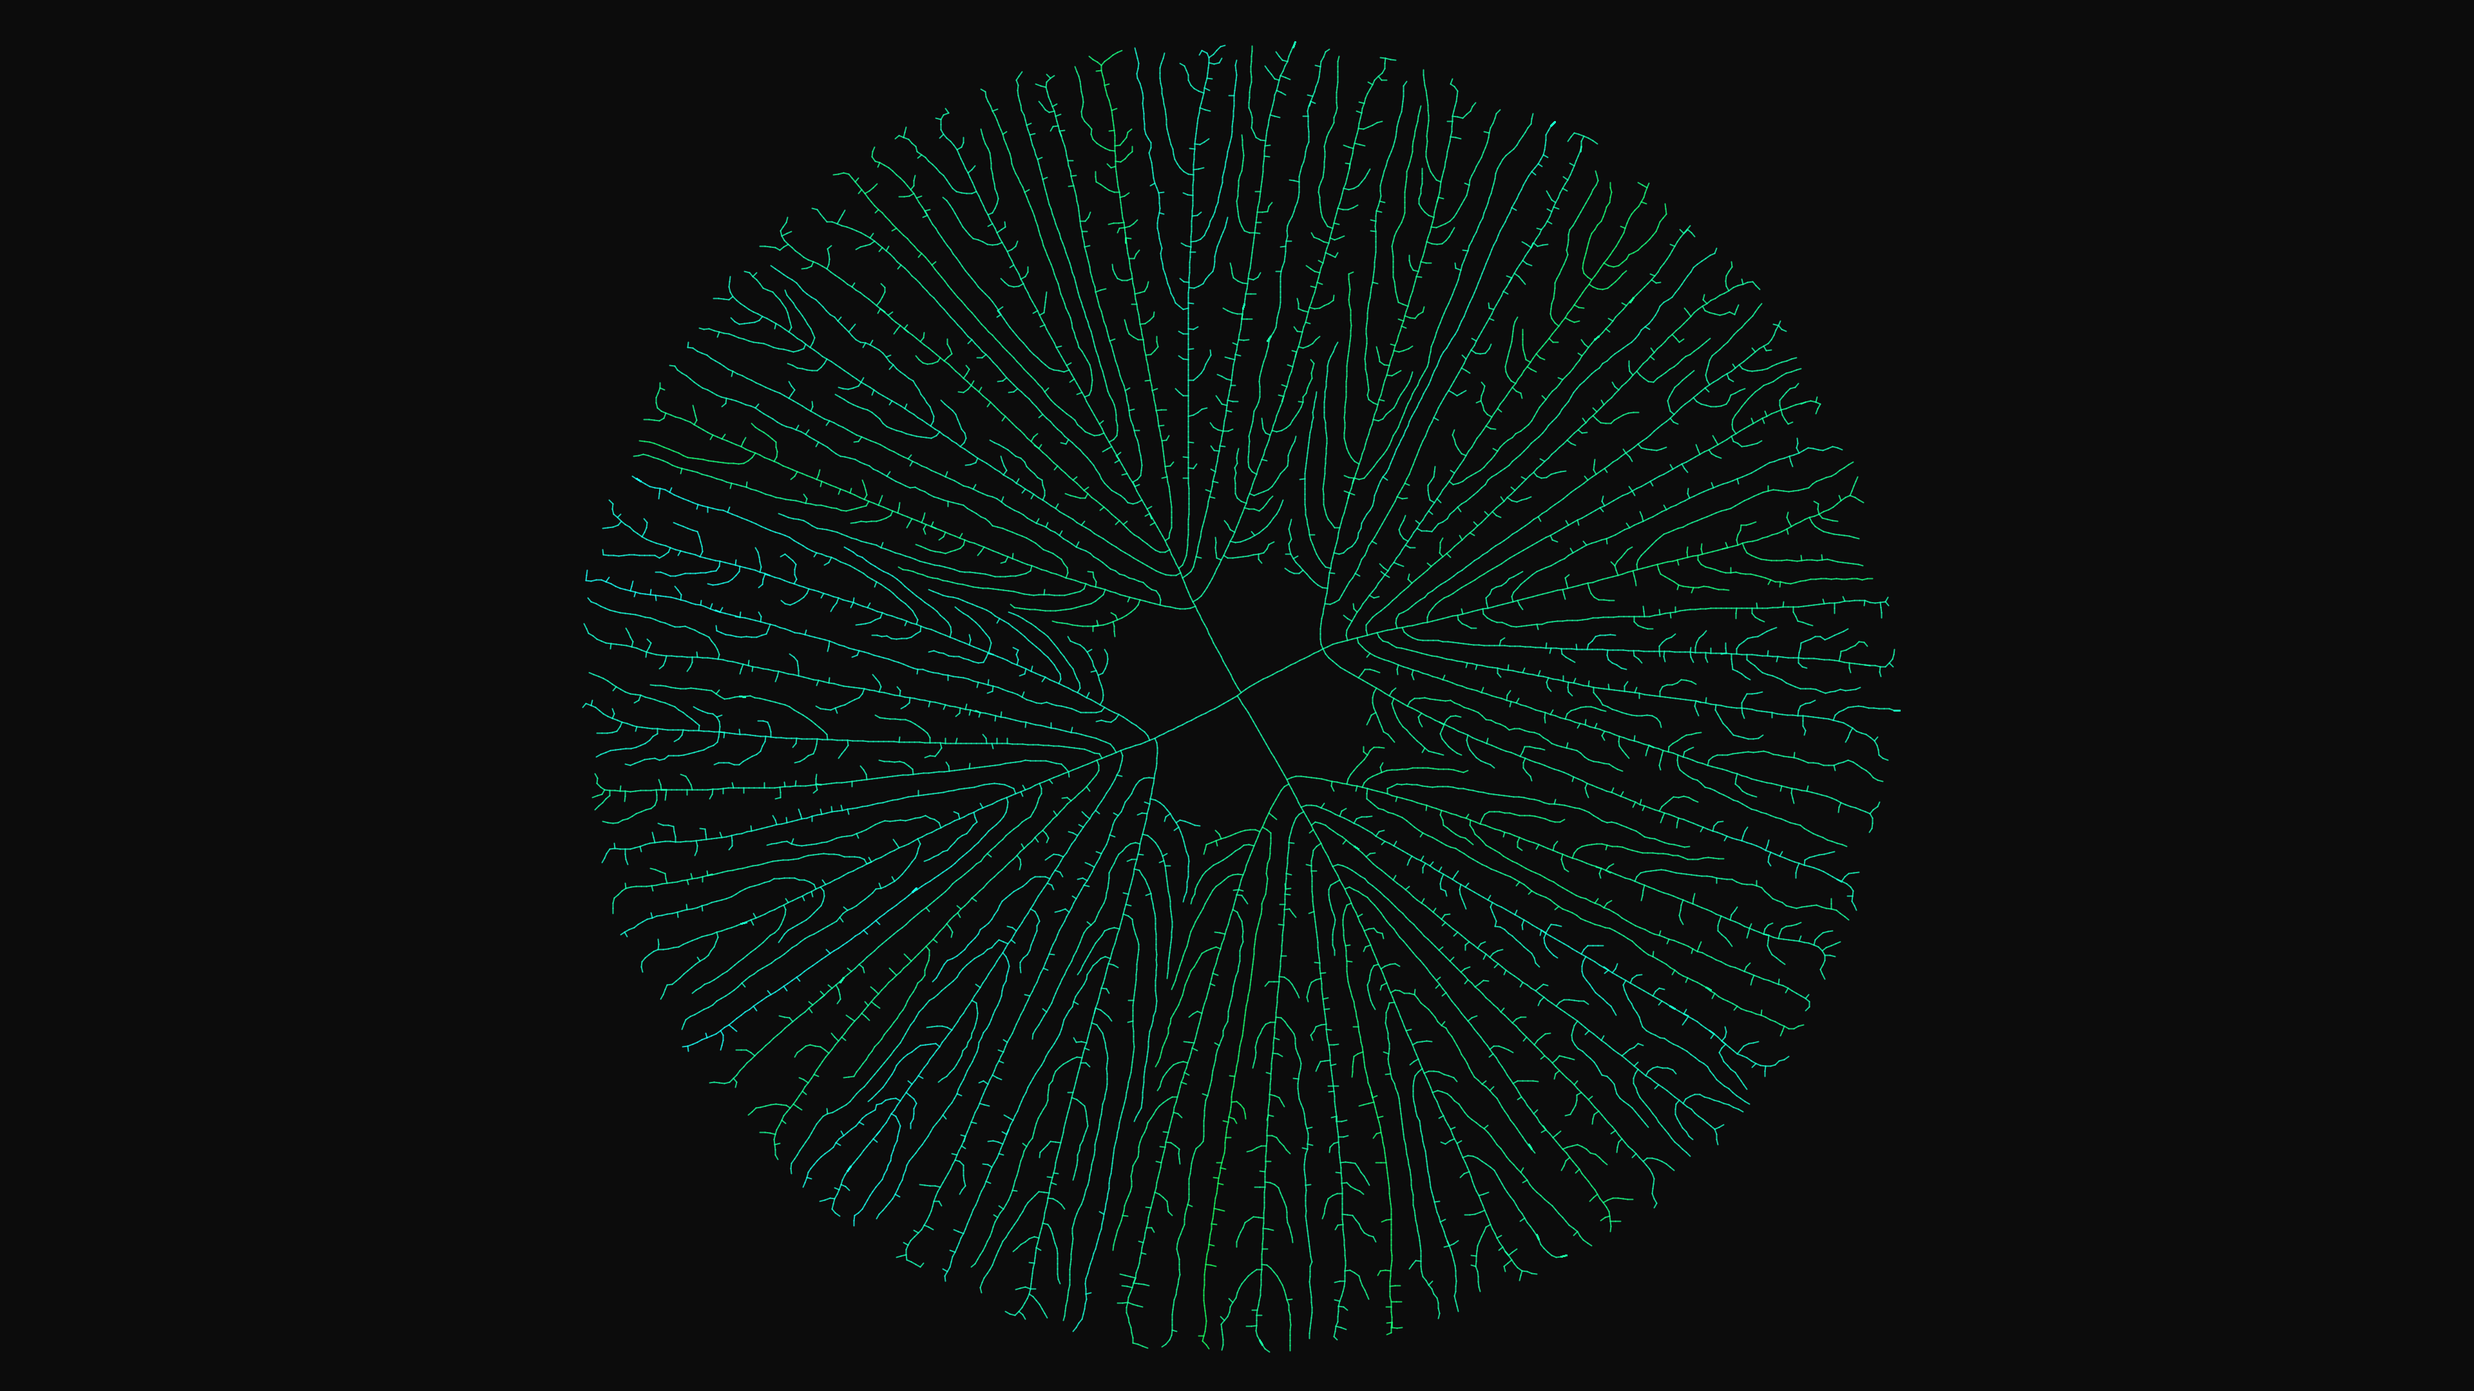
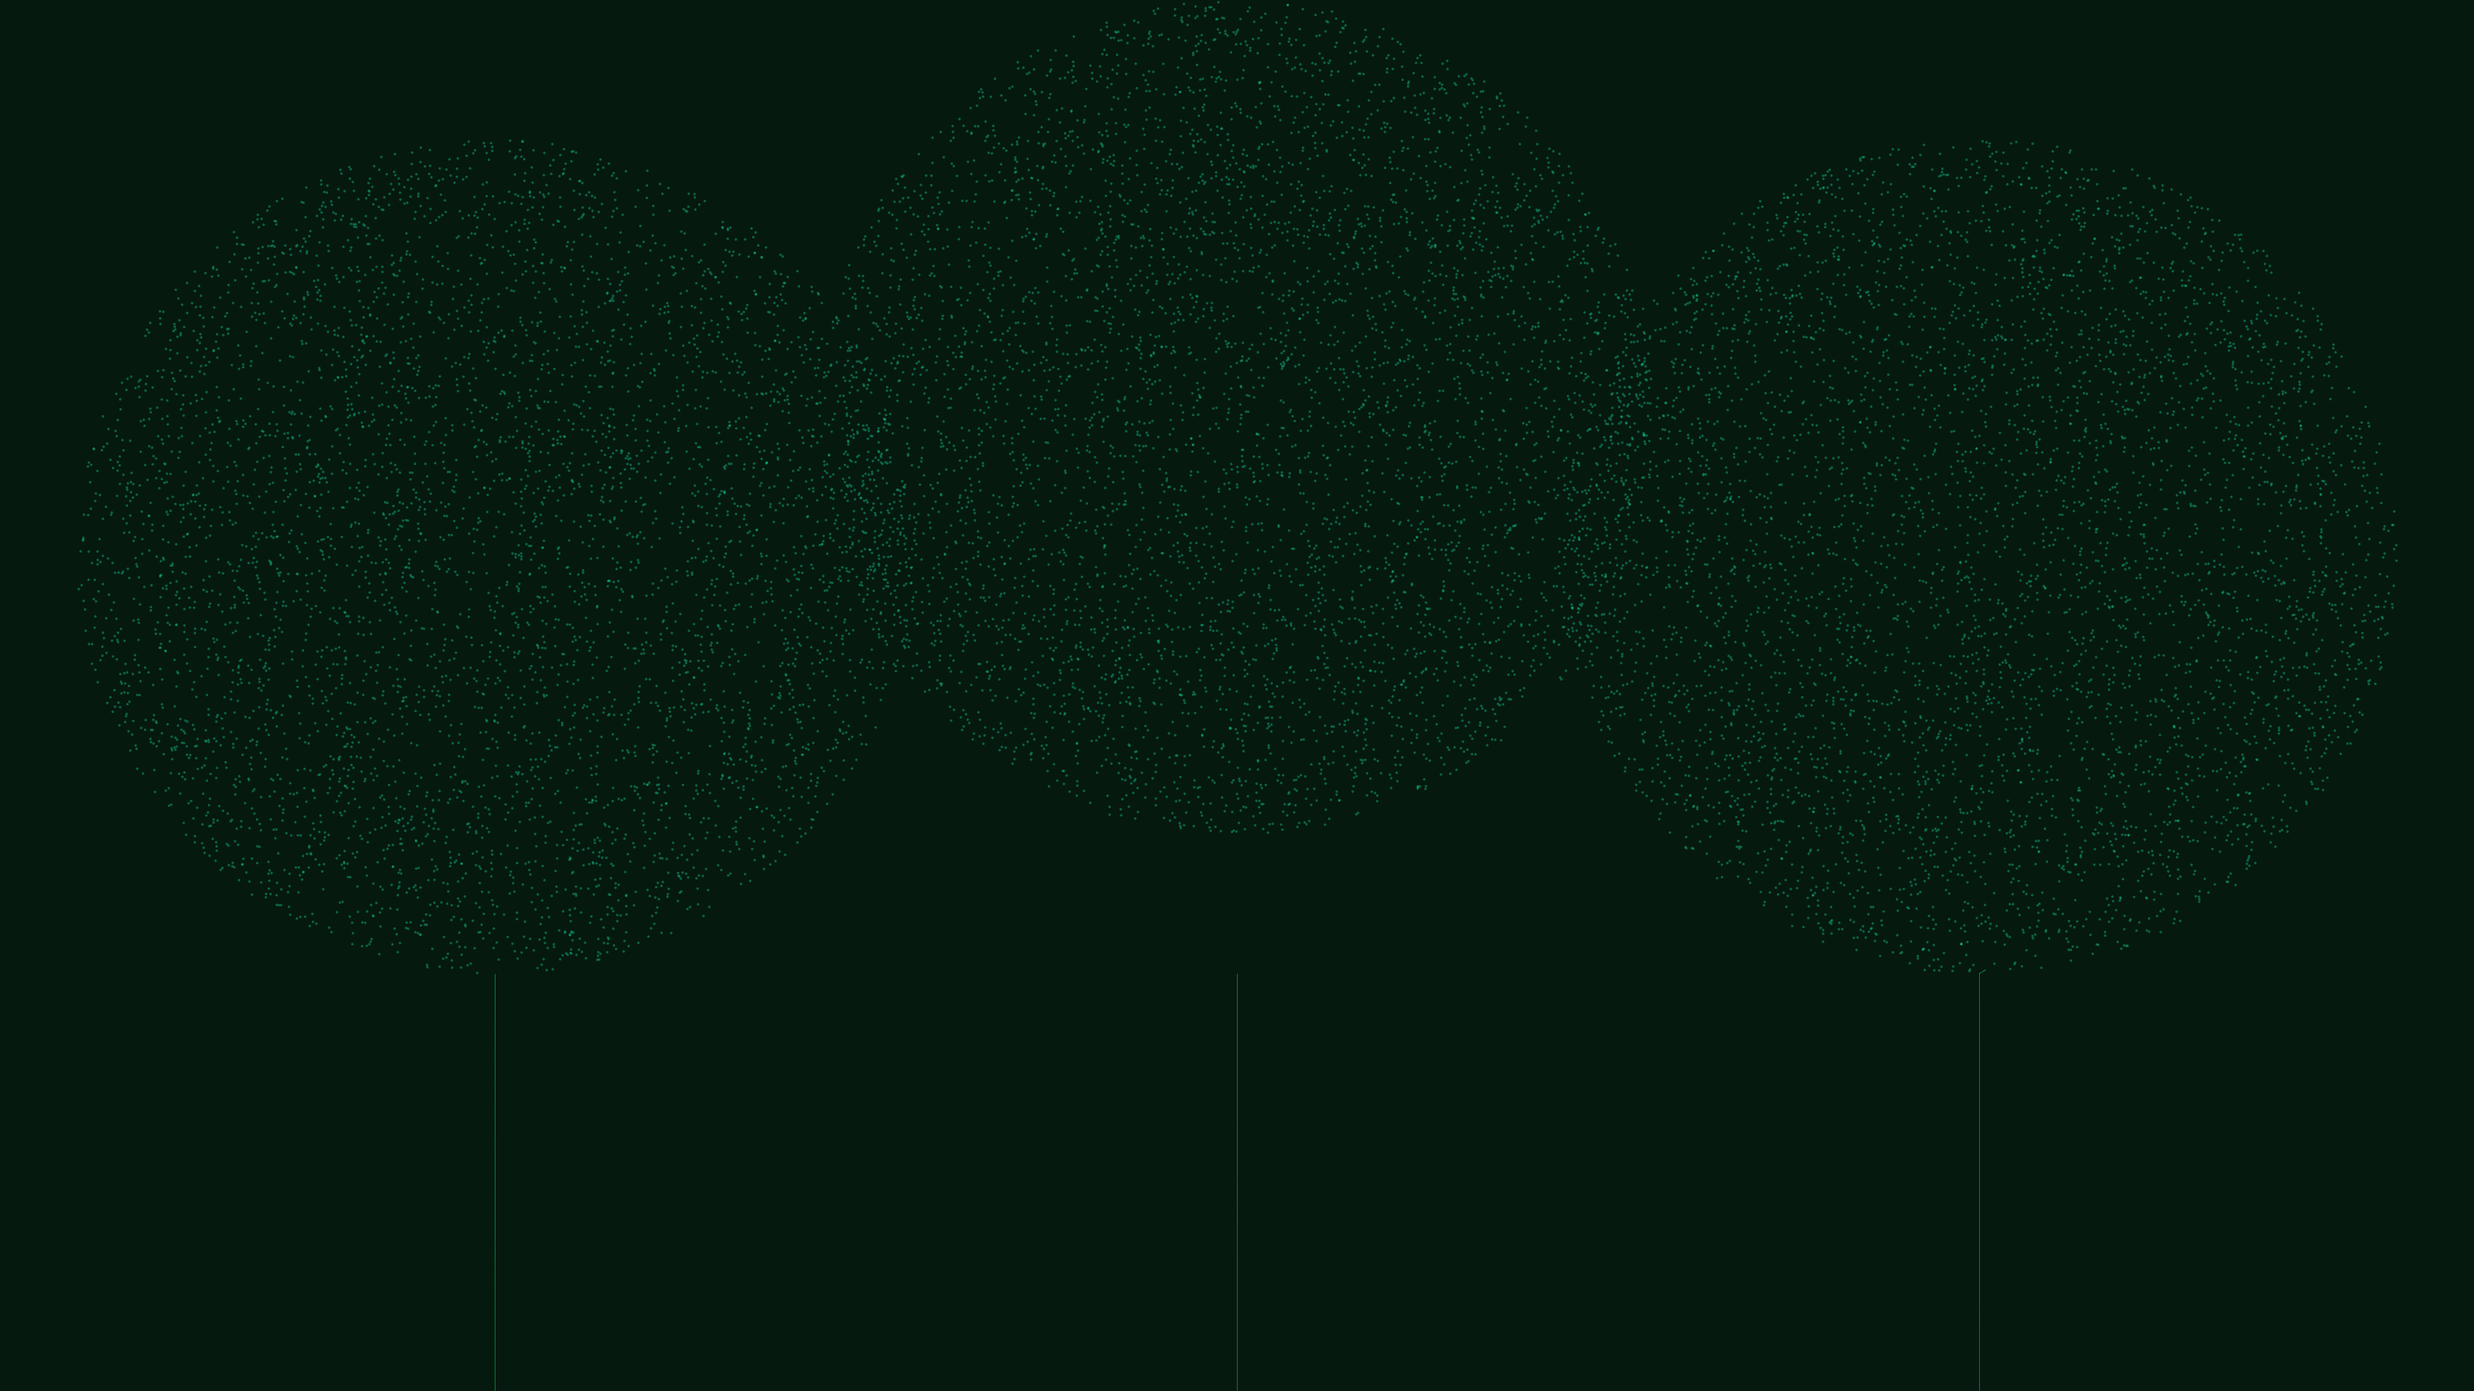
feat: add kinetic_space_colonization_trees_2d animation

diff --git a/sketch/kinetic_space_colonization_trees_2d/main.py b/sketch/kinetic_space_colonization_trees_2d/main.py
@@ -5,6 +5,7 @@ import sys
 import random
 import py5
 import numpy as np
+from scipy.spatial import cKDTree
 
 PROJECT_ROOT = Path(__file__).resolve().parents[2]
 if str(PROJECT_ROOT) not in sys.path:
@@ -23,155 +24,182 @@ PREVIEW_FILENAME = f"{WORK_NAME}_p1.png"
 PREVIEW_SIZE, OUTPUT_SIZE, _ = get_sizes()
 SIZE = OUTPUT_SIZE
 
-# Space Colonization Algorithm Constants
-MAX_DIST = 400.0  # Max distance an attractor can influence a branch
-MIN_DIST = 15.0   # Distance at which an attractor is "reached" and removed
-BRANCH_LENGTH = 8.0 # How far a branch grows per step
+# Space Colonization Algorithm parameters
 NUM_ATTRACTORS = 15000
+ATTRACT_DIST = py5.height * 0.15 # Max distance to be influenced
+KILL_DIST = py5.height * 0.005  # Distance to eat an attractor
+BRANCH_LEN = py5.height * 0.006
 
-# Attractors: numpy array (N, 2)
 attractors = []
-for _ in range(NUM_ATTRACTORS):
-    # distribute them mostly in a wide circle
-    r = random.uniform(200, SIZE[1] // 2 - 50)
-    theta = random.uniform(0, py5.TWO_PI)
-    cx, cy = SIZE[0] // 2, SIZE[1] // 2
-    attractors.append([cx + r * np.cos(theta), cy + r * np.sin(theta)])
-attractors = np.array(attractors, dtype=np.float32)
-
-# Tree nodes: numpy array (M, 2) of positions, parent index array (M,), and hue array (M,)
-tree = np.array([[SIZE[0]//2, SIZE[1]//2]], dtype=np.float32)
-parents = np.array([-1], dtype=np.int32)
-hues = np.array([160.0], dtype=np.float32)
-
-# To keep the render fast over time, we only consider "active" tree nodes (leaves) that recently grew
-# This is an optimization. We keep a boolean mask of active nodes.
-active_nodes = np.array([True])
+nodes = [] # (x, y, parent_idx, thickness)
+node_pts = None # Nx2 numpy array for fast querying
+KD_TREE_ATTRACTORS = None
 
 def setup():
     py5.size(*SIZE)
     py5.pixel_density(1)
     FRAMES_DIR.mkdir(exist_ok=True)
     py5.color_mode(py5.HSB, 360, 100, 100, 100)
-    py5.background(0, 0, 5) # almost black
-    py5.stroke_weight(2.0)
-    py5.no_fill()
+    
+    py5.background(150, 80, 10) # Dark teal background
+    
+    global attractors, nodes, node_pts
+    
+    # Create attractors in canopy shapes
+    for _ in range(NUM_ATTRACTORS):
+        # Three circular canopies
+        cx, cy = random.choice([
+            (py5.width * 0.2, py5.height * 0.4),
+            (py5.width * 0.5, py5.height * 0.3),
+            (py5.width * 0.8, py5.height * 0.4)
+        ])
+        
+        # Add random scatter
+        r = py5.height * 0.3 * np.sqrt(random.random())
+        theta = random.random() * 2 * np.pi
+        
+        x = cx + r * np.cos(theta)
+        y = cy + r * np.sin(theta)
+        
+        attractors.append(np.array([x, y]))
+        
+    attractors = np.array(attractors, dtype=np.float32)
+    
+    # Create initial root nodes
+    for i, cx in enumerate([py5.width * 0.2, py5.width * 0.5, py5.width * 0.8]):
+        # Start at the bottom
+        x = cx
+        y = py5.height
+        
+        # Grow trunk straight up until it reaches canopy
+        parent_idx = -1
+        while y > py5.height * 0.7:
+            nodes.append((x, y, parent_idx, 0.0))
+            parent_idx = len(nodes) - 1
+            y -= BRANCH_LEN
+            
+    node_pts = np.array([[n[0], n[1]] for n in nodes], dtype=np.float32)
 
 def draw():
-    global attractors, tree, parents, hues, active_nodes
+    global attractors, nodes, node_pts
     
-    # We do a few growth steps per frame
+    # We do multiple growth steps per frame for speed
     for _ in range(2):
         if len(attractors) == 0:
             break
             
-        # Get active tree nodes
-        active_idx = np.where(active_nodes)[0]
-        if len(active_idx) == 0:
+        # Build KD tree of tree nodes to find nearest neighbors for each attractor
+        node_tree = cKDTree(node_pts)
+        
+        # Query nearest node for each attractor
+        dists, indices = node_tree.query(attractors, distance_upper_bound=ATTRACT_DIST)
+        
+        # Find which attractors are eaten
+        eaten = dists < KILL_DIST
+        
+        # Filter out eaten attractors
+        valid = ~eaten
+        active_attractors = attractors[valid]
+        active_dists = dists[valid]
+        active_indices = indices[valid]
+        
+        attractors = active_attractors # Update global list
+        
+        if len(attractors) == 0:
             break
-        active_tree = tree[active_idx]
-        
-        # Calculate distances from all attractors to all active tree nodes
-        # To avoid massive memory allocation (N*M*2 floats), we loop over attractors or use KDTree.
-        # We find the closest active tree node for each attractor in chunks.
-        
-        N = len(attractors)
-        M = len(active_tree)
-        
-        # If no active nodes, break
-        if M == 0: break
-        
-        closest_node_idx_for_attractor = np.zeros(N, dtype=np.int32) - 1
-        min_dist_for_attractor = np.full(N, np.inf)
-        
-        CHUNK_SIZE = 1000
-        for i in range(0, N, CHUNK_SIZE):
-            chunk = attractors[i:i+CHUNK_SIZE] # (C, 2)
-            # diffs: (C, M, 2)
-            diffs = chunk[:, np.newaxis, :] - active_tree[np.newaxis, :, :]
-            dists = np.linalg.norm(diffs, axis=2) # (C, M)
             
-            # Find min dist and index for each attractor in chunk
-            min_idx = np.argmin(dists, axis=1) # (C,)
-            min_dist = dists[np.arange(len(chunk)), min_idx] # (C,)
+        # For each node, find the average direction of all attractors it influences
+        # active_indices contains the index of the nearest node for each active attractor
+        
+        # Accumulate direction vectors
+        node_dirs = np.zeros_like(node_pts)
+        node_counts = np.zeros(len(node_pts), dtype=np.int32)
+        
+        # Only process those within ATTRACT_DIST (scipy cKDTree returns infinity if not found)
+        in_range = active_dists < ATTRACT_DIST
+        
+        valid_attractors = active_attractors[in_range]
+        valid_indices = active_indices[in_range]
+        
+        for i in range(len(valid_attractors)):
+            attr = valid_attractors[i]
+            n_idx = valid_indices[i]
             
-            # Map chunk indices back to global
-            closest_node_idx_for_attractor[i:i+CHUNK_SIZE] = min_idx
-            min_dist_for_attractor[i:i+CHUNK_SIZE] = min_dist
-
-        # Filter attractors that are too far
-        valid_mask = min_dist_for_attractor < MAX_DIST
-        
-        # Remove attractors that are reached
-        reached_mask = min_dist_for_attractor < MIN_DIST
-        
-        # We only care about attractors that are valid and NOT reached
-        active_attractor_mask = valid_mask & ~reached_mask
-        
-        if not np.any(active_attractor_mask):
-            attractors = attractors[~reached_mask]
-            # Randomly deactivate some old nodes so we don't get stuck checking them
-            if random.random() < 0.1:
-                active_nodes[random.choice(active_idx)] = False
-            continue
+            node_pos = node_pts[n_idx]
+            dir_vec = attr - node_pos
+            # Normalize
+            norm = np.linalg.norm(dir_vec)
+            if norm > 0:
+                dir_vec /= norm
+                
+            node_dirs[n_idx] += dir_vec
+            node_counts[n_idx] += 1
             
-        # For each valid attractor, it influences its closest active node
-        valid_attractor_idx = np.where(active_attractor_mask)[0]
-        influencing_attractors = attractors[valid_attractor_idx]
-        influenced_active_nodes = closest_node_idx_for_attractor[valid_attractor_idx] # these are indices into active_tree!
+        # Add new nodes
+        new_nodes = []
+        new_node_pts = []
         
-        # Accumulate directions for each active node
-        node_dir_sum = np.zeros_like(active_tree)
-        node_pull_count = np.zeros(M, dtype=np.int32)
-        
-        # Calculate direction from node to attractor
-        dirs = influencing_attractors - active_tree[influenced_active_nodes]
-        dirs_norm = np.linalg.norm(dirs, axis=1, keepdims=True)
-        dirs_normalized = np.divide(dirs, dirs_norm, out=np.zeros_like(dirs), where=dirs_norm!=0)
-        
-        np.add.at(node_dir_sum, influenced_active_nodes, dirs_normalized)
-        np.add.at(node_pull_count, influenced_active_nodes, 1)
-        
-        # Find which nodes are being pulled
-        pulled_mask = node_pull_count > 0
-        pulled_indices = np.where(pulled_mask)[0]
-        
-        if len(pulled_indices) == 0:
-            attractors = attractors[~reached_mask]
-            continue
+        for n_idx in range(len(node_pts)):
+            if node_counts[n_idx] > 0:
+                avg_dir = node_dirs[n_idx] / node_counts[n_idx]
+                # Normalize again just in case
+                norm = np.linalg.norm(avg_dir)
+                if norm > 0:
+                    avg_dir /= norm
+                    
+                # Add some noise to the direction for organic growth
+                noise_angle = random.uniform(-0.2, 0.2)
+                c, s = np.cos(noise_angle), np.sin(noise_angle)
+                rot_dir = np.array([avg_dir[0]*c - avg_dir[1]*s, avg_dir[0]*s + avg_dir[1]*c])
+                
+                new_pos = node_pts[n_idx] + rot_dir * BRANCH_LEN
+                
+                new_nodes.append((new_pos[0], new_pos[1], n_idx, 0.0))
+                new_node_pts.append(new_pos)
+                
+        if new_nodes:
+            nodes.extend(new_nodes)
+            node_pts = np.vstack([node_pts, np.array(new_node_pts)])
             
-        # Calculate average direction for pulled nodes
-        avg_dirs = node_dir_sum[pulled_indices] / node_pull_count[pulled_indices, np.newaxis]
-        avg_dirs_norm = np.linalg.norm(avg_dirs, axis=1, keepdims=True)
-        avg_dirs_normalized = np.divide(avg_dirs, avg_dirs_norm, out=np.zeros_like(avg_dirs), where=avg_dirs_norm!=0)
+    # Calculate thickness from leaves to root
+    # We do this every frame for the new topology
+    leaf_nodes = set(range(len(nodes)))
+    for n in nodes:
+        if n[2] != -1:
+            leaf_nodes.discard(n[2])
+            
+    area = np.zeros(len(nodes), dtype=np.float32)
+    for i in leaf_nodes:
+        area[i] = 1.0
         
-        # Calculate new node positions
-        new_positions = active_tree[pulled_indices] + avg_dirs_normalized * BRANCH_LENGTH
+    for i in range(len(nodes) - 1, -1, -1):
+        parent_idx = nodes[i][2]
+        if parent_idx != -1:
+            area[parent_idx] += area[i]
+            
+    thickness = np.sqrt(area)
+            
+    # Render
+    py5.background(150, 80, 10)
+    
+    # Draw attractors (leaves)
+    py5.no_stroke()
+    py5.fill(160, 90, 80, 40)
+    for a in attractors:
+        py5.circle(a[0], a[1], 4)
         
-        # The parent index in the FULL tree is active_idx[pulled_indices]
-        new_parents = active_idx[pulled_indices]
-        
-        # Vary hue slightly based on parent hue
-        new_hues = hues[new_parents] + np.random.uniform(-1, 1, size=len(new_parents))
-        new_hues = np.mod(new_hues, 360) # keep it wrapping
-        
-        # Draw the new branches
-        py5.begin_shape(py5.LINES)
-        for i in range(len(new_positions)):
-            py5.stroke(new_hues[i], 90, 100, 80)
-            p_idx = new_parents[i]
-            py5.vertex(tree[p_idx, 0], tree[p_idx, 1])
-            py5.vertex(new_positions[i, 0], new_positions[i, 1])
-        py5.end_shape()
-        
-        # Append new nodes to the full tree
-        tree = np.vstack((tree, new_positions))
-        parents = np.concatenate((parents, new_parents))
-        hues = np.concatenate((hues, new_hues))
-        active_nodes = np.concatenate((active_nodes, np.ones(len(new_positions), dtype=bool)))
-        
-        # Remove reached attractors
-        attractors = attractors[~reached_mask]
+    # Draw branches
+    py5.no_fill()
+    py5.stroke(140, 80, 60)
+    
+    for i in range(len(nodes)):
+        parent_idx = nodes[i][2]
+        if parent_idx != -1:
+            py5.stroke_weight(thickness[i] * 0.5)
+            # Add a slight color gradient based on height
+            h = py5.remap(nodes[i][1], py5.height, 0, 140, 180)
+            py5.stroke(h, 90, 80)
+            py5.line(nodes[i][0], nodes[i][1], nodes[parent_idx][0], nodes[parent_idx][1])
 
     py5.save_frame(str(FRAMES_DIR / "frame-####.png"))
 

diff --git a/sketch/WORKS.md b/sketch/WORKS.md
@@ -1,3 +1,10 @@
+## kinetic_space_colonization_trees_2d
+- **Date**: 2026-07-20
+- **Type**: Animation (1020 frames, 60fps)
+- **Concept**: A procedural growth animation using the Space Colonization algorithm to mimic the natural branching of trees.
+- **Techniques**: Simulates a network of branching nodes growing towards a scattered field of 15,000 "attractor" points arranged in canopy shapes. Uses a SciPy KD-Tree for efficient nearest-neighbor queries. As branches get close to attractors, they "eat" them, allowing the tree to split and grow organically. Calculates realistic branch thicknesses using the sum-of-areas method (Leonardo da Vinci's rule of trees).
+- **Palette**: Deep emerald greens, bright lime, and electric teal on a dark teal background.
+
 ## kinetic_metaballs_marching_squares_2d
 - **Date**: 2026-07-20
 - **Type**: Animation (960 frames, 60fps)

diff --git a/.agents/FEEDBACK.md b/.agents/FEEDBACK.md
@@ -4,6 +4,12 @@
 Agents MUST NOT write anything in the `Comment` field. When registering a new work, Agents must leave the `Rating` and `Comment` fields empty or with their default labels as placeholders for the user.
 The Artist reads this file before starting a new sketch to understand preferences.
 
+## kinetic_space_colonization_trees_2d
+
+- **Rating**: 
+- **Comment**: 
+
+
 ## kinetic_metaballs_marching_squares_2d
 
 - **Rating**: 
